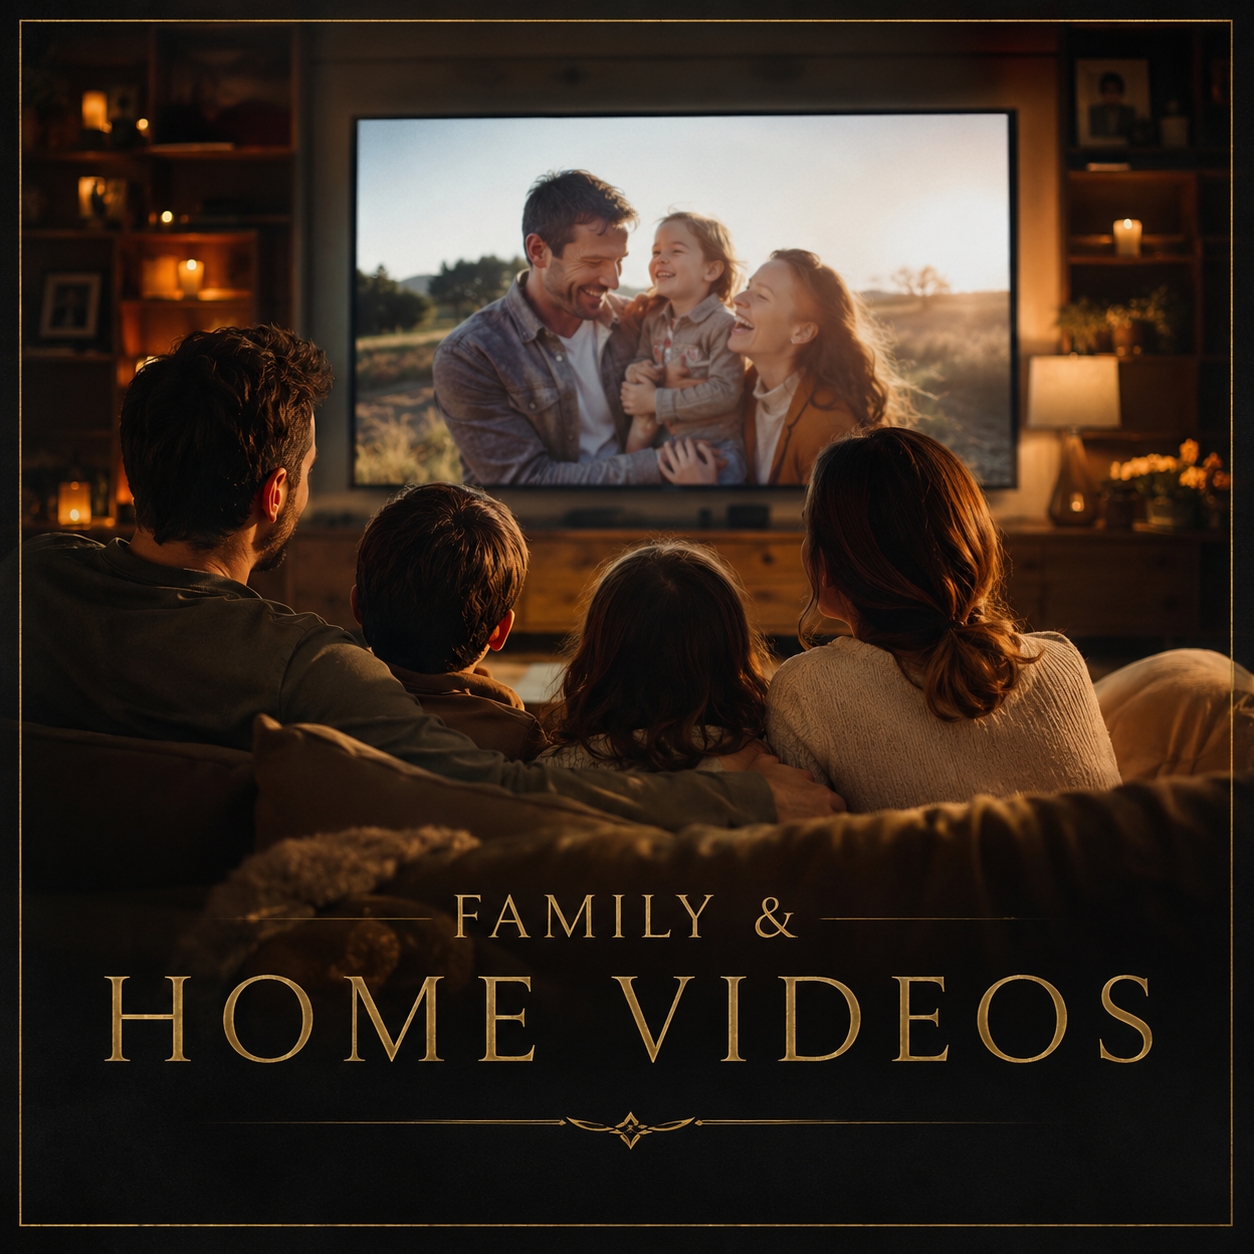
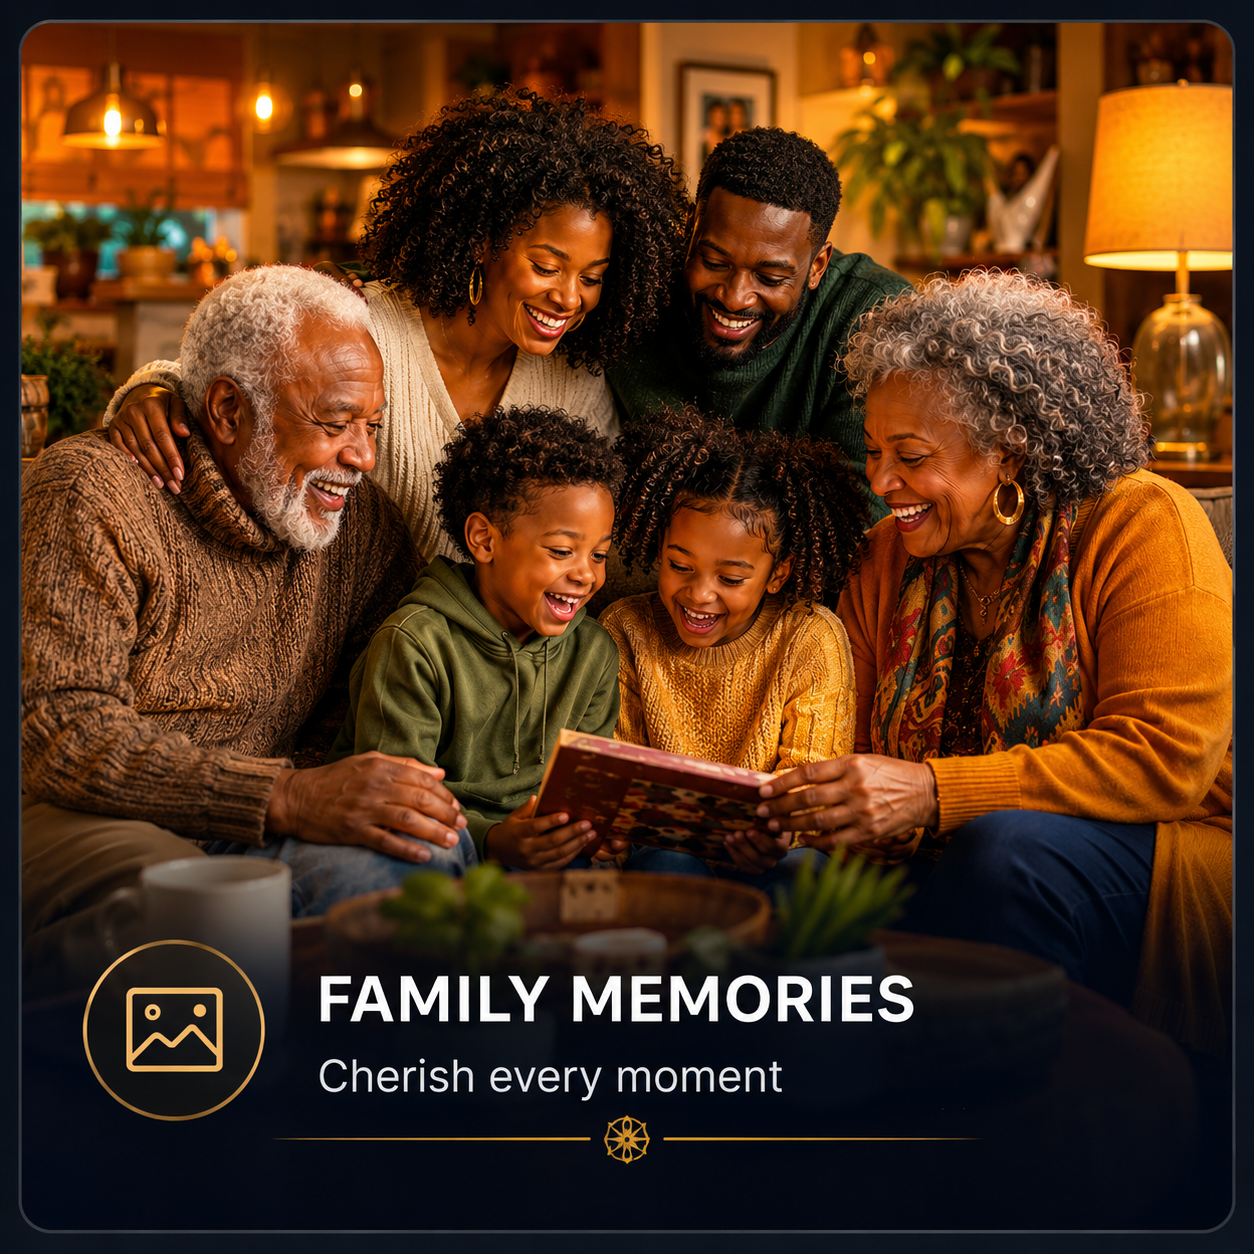
v1.0.1

diff --git a/download.html b/download.html
@@ -42,16 +42,16 @@
         <div class="hero-actions">
           <a class="button primary" href="download-windows.html" data-download-confirm>Download Free for Windows</a>
         </div>
-        <p class="download-status-note"><strong>LocalStream Free v1.0.0 is available now for Windows.</strong></p>
+        <p class="download-status-note"><strong>LocalStream Free v1.0.1 is available now for Windows.</strong></p>
       </section>
 
       <section class="content download-content">
         <section class="download-availability card">
           <p class="eyebrow">Current availability</p>
           <h2>Download the first public Free release</h2>
-          <p>LocalStream Free is available for Windows as a public release. LocalStream Pro is available as a one-time upgrade if you want unlimited videos, multiple libraries, backup and restore, advanced tools, and supported 3D viewing.</p>
+          <p>LocalStream Free is available now for Windows. LocalStream Pro is available as a one-time upgrade if you want unlimited videos, multiple libraries, backup and restore, advanced tools, and supported 3D viewing.</p>
           <ul class="feature-list">
-            <li>Windows installer for LocalStream Free v1.0.0</li>
+            <li>Windows installer for LocalStream Free v1.0.1</li>
             <li>Up to 20 videos in Free mode</li>
             <li>No account required for the desktop workflow</li>
             <li>No uploads; your videos stay on your device</li>
@@ -66,7 +66,7 @@
           <div class="section-heading">
             <p class="eyebrow">Free and Pro</p>
             <h2>One app, two ways to use LocalStream</h2>
-            <p>LocalStream is one Windows installer with a Free edition for smaller libraries and a Pro upgrade path planned for larger collections and additional tools.</p>
+            <p>LocalStream is one Windows installer with a Free edition for smaller libraries and a Pro upgrade for larger collections and additional tools.</p>
           </div>
           <div class="pricing-grid">
             <article class="card pricing-card">
@@ -86,7 +86,7 @@
             <article class="card pricing-card pricing-card-featured">
               <p class="pricing-label">LocalStream Pro</p>
               <p class="pricing-price">NZD$42.99 <span>one-time</span></p>
-              <p class="pricing-description">Intended for larger libraries, more locations, and the extra tools that make moving and maintaining a personal video collection easier.</p>
+              <p class="pricing-description">Built for larger libraries, more locations, and the extra tools that make moving and maintaining a personal video collection easier.</p>
               <ul class="pricing-list">
                 <li>Unlimited videos</li>
                 <li>Multiple library locations</li>
@@ -117,7 +117,7 @@
               <ul class="feature-list">
                 <li>Windows desktop application</li>
                 <li>Additional local storage may be used for thumbnails and cache</li>
-                <li>Limited internet access is only needed for release-related functions such as downloads, support links, and licensing when available</li>
+                <li>Limited internet access is only needed for downloads, support links, and Pro licence checks</li>
               </ul>
               <p class="pricing-note">For best results, use common video formats supported by Windows and keep enough free disk space for thumbnails and cache.</p>
             </article>
@@ -167,11 +167,12 @@
 
             <article class="card">
               <p class="eyebrow">Release information</p>
-              <h3>Public release details</h3>
+              <h3>Current release details</h3>
               <ul class="feature-list">
-                <li><strong>Version:</strong> 1.0.0</li>
-                <li><strong>Release date:</strong> August 11, 2026</li>
+                <li><strong>Version:</strong> 1.0.1</li>
+                <li><strong>Release date:</strong> August 13, 2026</li>
                 <li><strong>Installer file size:</strong> About 81 MB</li>
+                <li><strong>SHA-256:</strong> <code>394212615ff180c9791748a00cc3483bbf7db059b2379d44bb654ee89fc7d727</code></li>
               </ul>
             </article>
           </div>

diff --git a/index.html b/index.html
@@ -33,11 +33,11 @@
     </header>
     <main id="main">
       <section class="hero">
-        <div class="reveal">
-          <div class="hero-brandmark">
-            <img src="assets/img/localstream-hero-logo.png" alt="LocalStream logo">
-          </div>
-          <p class="eyebrow">Private video library</p>
+          <div class="reveal">
+            <div class="hero-brandmark">
+              <img src="assets/img/localstream-hero-logo.png" alt="LocalStream logo">
+            </div>
+            <p class="eyebrow">Private video library</p>
           <h1>Your memories were never meant to live in folders.</h1>
           <p class="hero-copy">Thousands of personal videos disappear into forgotten folders, old drives, and filenames that no longer mean anything. LocalStream transforms the videos already on your computer into a beautiful, private library you can browse, organise, and enjoy again.</p>
           <div class="hero-actions"><a class="button primary" href="download.html">Download Free</a></div>
@@ -298,8 +298,8 @@
         <div class="section-heading"><p class="eyebrow">Questions</p><h2>Frequently asked questions.</h2></div>
         <div class="faq-list">
           <details><summary>Is LocalStream free?</summary><p>Yes. LocalStream Free supports small libraries of up to 20 videos and includes local playback, thumbnails, search, organisation tools, watch progress, favourites, tags, and playlists.</p></details>
-          <details><summary>What does LocalStream Pro unlock?</summary><p>LocalStream Pro is intended to add support for unlimited videos, multiple library folders, backup and restore for moving your library setup between computers, supported 3D and VR playback, extra thumbnail and preview tools, tools for finding and reconnecting moved videos, and updates for the current major version.</p></details>
-          <details><summary>Can I move my LocalStream library setup to another computer?</summary><p>Yes. LocalStream Pro is intended to let you back up your supported LocalStream library organisation and restore it on another computer. Your original video files are not included in that backup, so they must be copied, connected, or otherwise available separately.</p></details>
+          <details><summary>What does LocalStream Pro unlock?</summary><p>LocalStream Pro unlocks unlimited videos, multiple library folders, backup and restore for moving your library setup between computers, supported 3D and VR playback, extra thumbnail and preview tools, tools for finding and reconnecting moved videos, and updates for the current major version.</p></details>
+          <details><summary>Can I move my LocalStream library setup to another computer?</summary><p>Yes. LocalStream Pro lets you back up your supported LocalStream library organisation and restore it on another computer. Your original video files are not included in that backup, so they must be copied, connected, or otherwise available separately.</p></details>
           <details><summary>Is LocalStream Pro a subscription?</summary><p>No. LocalStream Pro is a one-time software licence.</p></details>
           <details><summary>What happens when I reach the 20-video limit?</summary><p>LocalStream Free supports up to 20 videos. If you want to grow beyond that, LocalStream Pro unlocks unlimited videos.</p></details>
           <details><summary>Does LocalStream upload my videos?</summary><p>No. LocalStream is designed around local folders and connected drives selected by you.</p></details>

diff --git a/privacy.html b/privacy.html
@@ -105,7 +105,7 @@
             LocalStream may access folders and video files you choose to add so it can build and display a local library. Based on the current website and product documentation, this may include information such as file names, folder or drive locations, thumbnails, cover imagery, playback information, and supported organisation details tied to the library you create.
           </p>
           <p>
-            LocalStream is intended to work with folders you select. This policy does not treat the app as scanning unrelated folders in the background.
+            LocalStream works with folders you select. This policy does not treat the app as scanning unrelated folders in the background.
           </p>
 
           <h2>3. Your video files</h2>
@@ -121,7 +121,7 @@
             LocalStream stores supported library and organisation information locally with the desktop app. Current website and product documentation describe this broadly as supported library information, including items such as favourites, tags, playlists, custom titles, cover art, thumbnails, watch progress, watch status, settings, and library configuration.
           </p>
           <p>
-            Backup &amp; Restore is intended to export supported LocalStream organisation and library information. A LocalStream backup does not automatically include your original video files.
+            Backup &amp; Restore exports supported LocalStream organisation and library information. A LocalStream backup does not automatically include your original video files.
           </p>
           <p>
             LocalStream backup files may contain information about your library organisation, so store them somewhere you trust.
@@ -137,7 +137,7 @@
 
           <h2>6. Purchases and Lemon Squeezy</h2>
           <p>
-            Where LocalStream Pro purchases are offered, purchases are processed through Lemon Squeezy, which acts as merchant of record.
+            LocalStream Pro purchases are processed through Lemon Squeezy, which acts as merchant of record.
           </p>
           <p>
             Lemon Squeezy and its payment infrastructure may process information necessary for checkout, payment handling, fraud prevention, taxes, receipts, refunds, disputes, and chargebacks. This may include a purchaser email address, billing information, payment information, and transaction details.
@@ -195,7 +195,7 @@
 
           <h2>12. How information is used</h2>
           <p>
-            Personal information handled through limited online services may be used for purposes such as processing purchases, issuing or refunding licences, supporting future or enabled licence validation, responding to support requests, handling customer enquiries, preventing fraud, maintaining security, and meeting legal obligations.
+            Personal information handled through limited online services may be used for purposes such as processing purchases, issuing or refunding licences, supporting licence activation and validation, responding to support requests, handling customer enquiries, preventing fraud, maintaining security, and meeting legal obligations.
           </p>
 
           <h2>13. Data retention</h2>

diff --git a/assets/css/styles.css b/assets/css/styles.css
@@ -1181,13 +1181,14 @@ textarea:focus-visible {
 
 .use-case-grid {
   display: grid;
-  grid-template-columns: repeat(3, minmax(0, 1fr));
-  gap: var(--space-3);
+  grid-template-columns: repeat(5, minmax(0, 1fr));
+  gap: var(--space-2);
 }
 
 .use-case-card {
   position: relative;
   display: block;
+  aspect-ratio: 1 / 1;
   overflow: hidden;
   border: 1px solid rgba(213, 184, 147, 0.2);
   border-radius: var(--radius);
@@ -1210,8 +1211,10 @@ textarea:focus-visible {
 
 .use-case-card img {
   width: 100%;
-  height: auto;
+  height: 100%;
   display: block;
+  object-fit: cover;
+  object-position: center;
   transition: transform 420ms ease, filter 420ms ease;
 }
 
@@ -1814,7 +1817,7 @@ textarea {
   }
 
   .use-case-grid {
-    grid-template-columns: repeat(2, minmax(0, 1fr));
+    grid-template-columns: repeat(3, minmax(0, 1fr));
   }
 
   .rediscovery-grid {
@@ -1963,7 +1966,7 @@ textarea {
   }
 
   .use-case-grid {
-    grid-template-columns: 1fr;
+    grid-template-columns: repeat(2, minmax(0, 1fr));
   }
 
   .rediscovery-grid {

diff --git a/terms.html b/terms.html
@@ -88,7 +88,7 @@
       <p>LocalStream library metadata may be stored locally, including tags, playlists, favourites, custom titles, custom cover art, and watch progress. Use of LocalStream is also governed by the <a href="privacy.html">Privacy Policy</a>.</p>
 
       <h2>10. Backup and Restore</h2>
-      <p>Backup and restore features are intended to protect LocalStream organisation and library metadata. They do not necessarily back up original video files.</p>
+      <p>Backup and restore features protect LocalStream organisation and library metadata. They do not necessarily back up original video files.</p>
       <p>You remain responsible for keeping separate backups of important media and storage devices.</p>
 
       <h2>11. Updates, Features, and Compatibility</h2>
